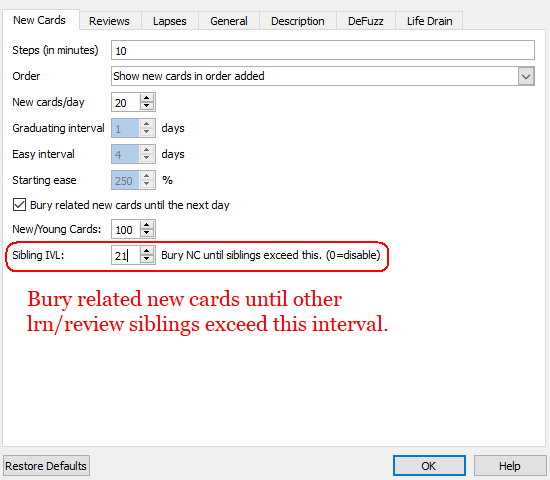
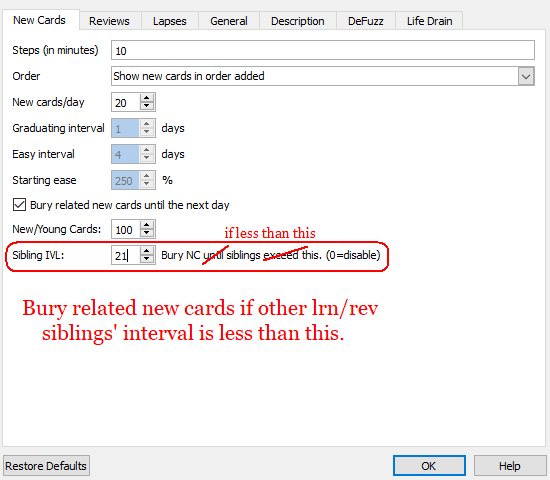
changed wording of text

Changed region(s): [[0.0309, 0.5938, 0.7109, 0.7188], [0.4018, 0.4688, 0.5873, 0.5312], [0.3709, 0.5312, 0.4018, 0.5625]]

diff --git a/src/push_paradox/pushParadox.py b/src/push_paradox/pushParadox.py
@@ -2,7 +2,7 @@
 # Copyright: (C) 2018 Lovac42
 # Support: https://github.com/lovac42/PushParadox
 # License: GNU GPL, version 3 or later; http://www.gnu.org/copyleft/gpl.html
-# Version: 0.0.2
+# Version: 0.0.3
 
 
 from aqt import mw
@@ -68,7 +68,7 @@ def dconfsetupUi(self, Dialog):
     self.gridLayout.addWidget(self.siblingStage, r, 1, 1, 1)
 
     label=QtWidgets.QLabel(self.tab_3)
-    label.setText(_("Bury NC until siblings exceed this. (0=disable)"))
+    label.setText(_("Bury NC if sibling ivl is less (0=disable)"))
     self.gridLayout.addWidget(label, r, 2, 1, 1)
 
 
